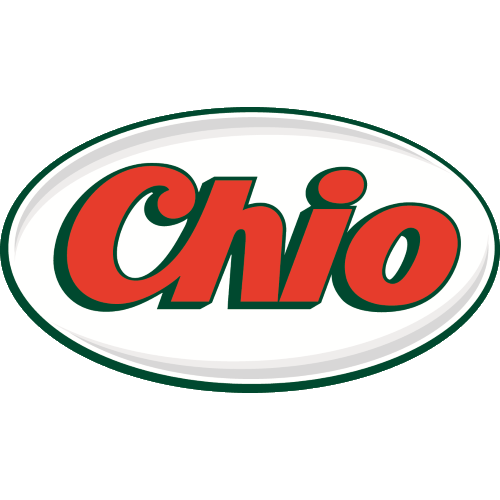
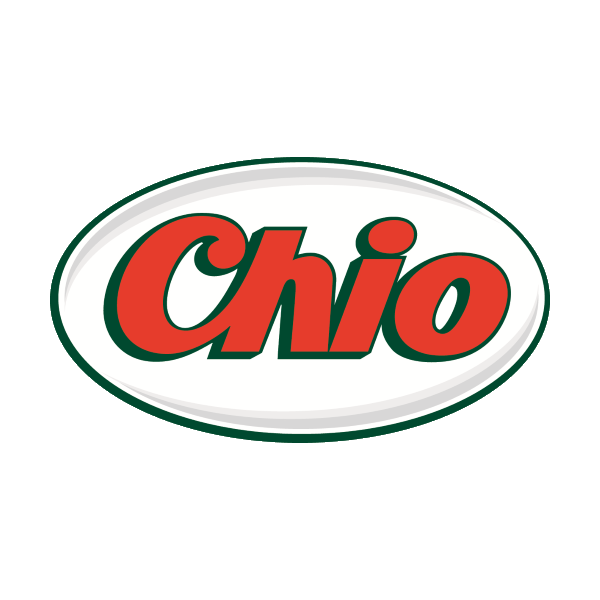
Added La Semeuse + uniformized some food sponsor sizes.

Changed region(s): [[0.0, 0.21, 1.0, 0.81], [0.93, 0.36, 0.96, 0.39], [0.9, 0.33, 0.93, 0.36]]

diff --git a/index.html b/index.html
@@ -304,6 +304,14 @@
                 </a>
             </div>
             <div class="col-md-4 col-centered">
+                <a href="https://www.lasemeuse.ch/"
+                   rel="noreferrer"
+                   target="_blank">
+                    <img src="images/sponsors/lasemeuse.png"
+                         alt="La Semeuse">
+                </a>
+            </div>
+            <div class="col-md-4 col-centered">
                 <a href="http://www.pepita.ch/"
                    rel="noreferrer"
                    target="_blank">
